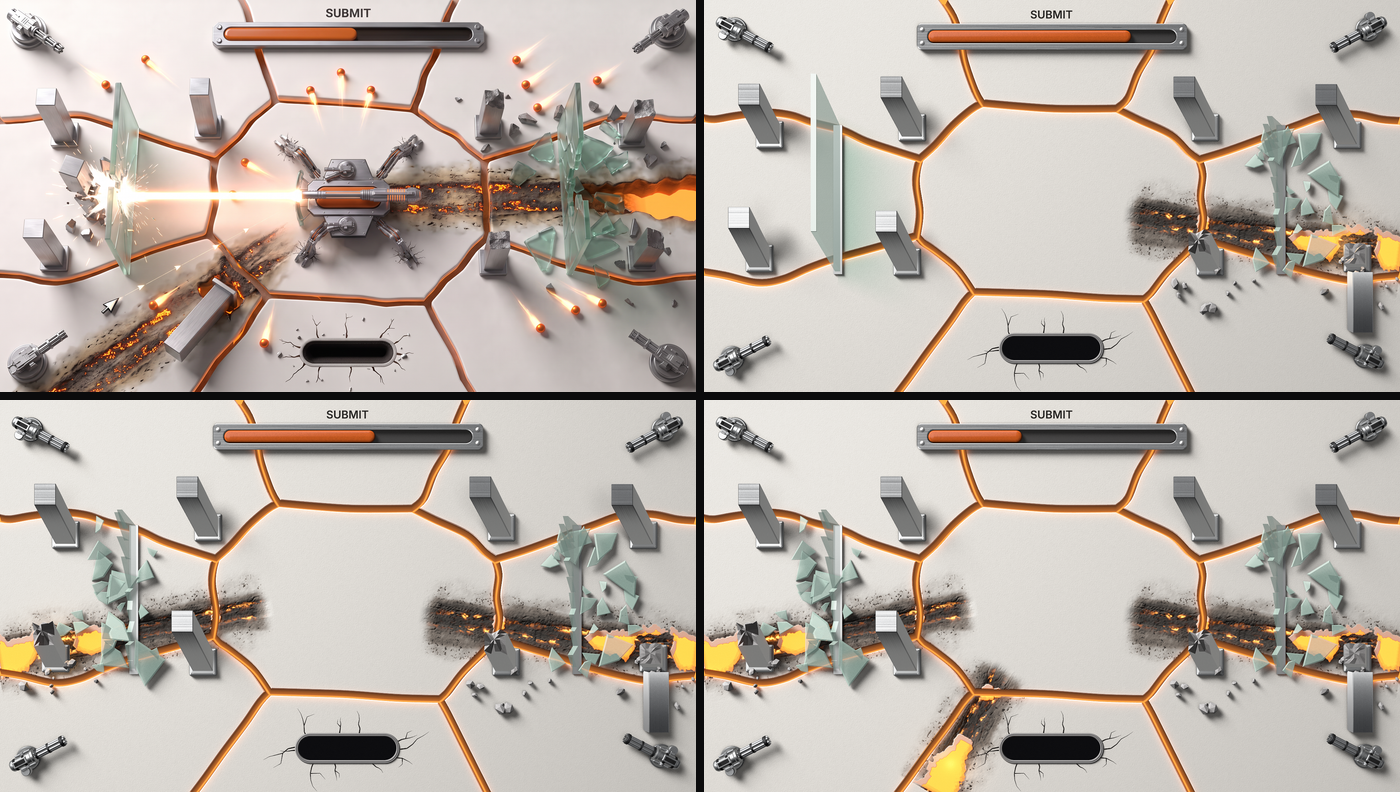
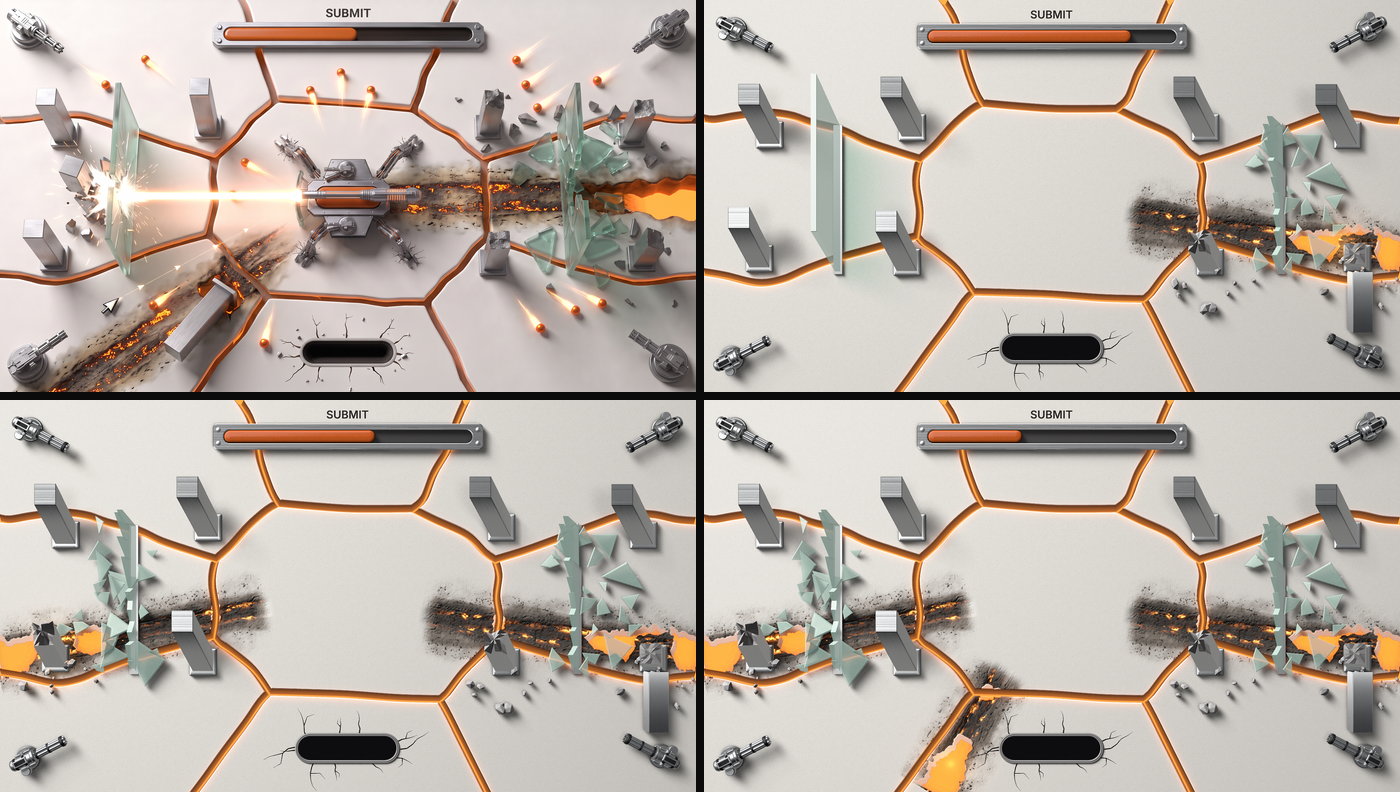
glass: teeth of the pane's own glass, splinters of two shapes; the hole graded on sixteen probes and more orange, its wall darker; finer dust

diff --git a/src/arena/wreck.ts b/src/arena/wreck.ts
@@ -21,7 +21,7 @@ const RUBBLE_EACH = 11
 const SHARDS_EACH = 22
 const SPARKS_EACH = 64
 const SMOKE_EACH = 20
-const DUST = 44
+const DUST = 96
 const DUST_SECONDS = 1.5
 // Over how many frames the wound of an aimed blast is painted ahead.
 const AHEAD_FRAMES = 36
@@ -75,10 +75,10 @@ function lumpGeometry(seed: number): THREE.BufferGeometry {
   return g
 }
 
-// A flat shard of glass, one unit across and three px thick.
-function shardGeometry(): THREE.BufferGeometry {
+// A flat shard of glass, one unit across: a long splinter with four corners, or a three-cornered one.
+function shardGeometry(three: boolean): THREE.BufferGeometry {
   const shape = new THREE.Shape()
-  const pts: [number, number][] = [[-0.56, -0.2], [0.5, -0.46], [0.3, 0.1], [-0.2, 0.52]]
+  const pts: [number, number][] = three ? [[-0.58, -0.3], [0.62, -0.08], [-0.14, 0.5]] : [[-0.56, -0.2], [0.5, -0.46], [0.3, 0.1], [-0.2, 0.52]]
   pts.forEach((q, i) => (i ? shape.lineTo(q[0], q[1]) : shape.moveTo(q[0], q[1])))
   shape.closePath()
   const g = new THREE.ExtrudeGeometry(shape, { depth: 0.04, bevelEnabled: true, bevelThickness: 0.03, bevelSize: 0.05, bevelSegments: 1 })
@@ -178,7 +178,7 @@ export function makeWreck(seed: number, kit: Kit, wounds: Wounds, pillars: Pilla
   // Teeth of the panes: built when a pane breaks, from where the blast went through it.
   const teeth = PANES.map((p) => {
     const s = stand(p.x, (p.y0 + p.y1) / 2)
-    const mesh = new THREE.Mesh(new THREE.BufferGeometry(), kit.shard)
+    const mesh = new THREE.Mesh(new THREE.BufferGeometry(), kit.tooth)
     mesh.castShadow = false
     mesh.renderOrder = 4
     s.root.add(mesh)
@@ -200,8 +200,10 @@ export function makeWreck(seed: number, kit: Kit, wounds: Wounds, pillars: Pilla
     return mesh
   }
   const rubble = instanced(keep(lumpGeometry(seed)), kit.broken, PILLARS.length * RUBBLE_EACH, 'arena-rubble', true, true)
-  const shards = instanced(keep(shardGeometry()), kit.shard, PANES.length * SHARDS_EACH, 'arena-shards', true, true)
+  const shards = instanced(keep(shardGeometry(false)), kit.shard, PANES.length * SHARDS_EACH, 'arena-shards', true, true)
   shards.renderOrder = 4
+  const splinters = instanced(keep(shardGeometry(true)), kit.shard, PANES.length * SHARDS_EACH, 'arena-splinters', true, true)
+  splinters.renderOrder = 4
   const plane = keep(new THREE.PlaneGeometry(1, 1))
   const add = { transparent: true, blending: THREE.AdditiveBlending, depthWrite: false, toneMapped: false, fog: false }
   const sparkStuff = keep(new THREE.MeshBasicMaterial({ map: softDot(), color: new THREE.Color(1, 1, 1), ...add }))
@@ -286,7 +288,7 @@ export function makeWreck(seed: number, kit: Kit, wounds: Wounds, pillars: Pilla
     const newest = active.reduce((a, k) => Math.max(a, k.at), -99)
     wounds.ember.value = 1 + 2.2 * Math.exp(-Math.max(0, t - newest) / 0.5)
 
-    let nRubble = 0, nShards = 0, nSparks = 0, nFlash = 0, nSmoke = 0
+    let nRubble = 0, nShards = 0, nSplinters = 0, nSparks = 0, nFlash = 0, nSmoke = 0
 
     // Pillars.
     pillars.forEach((p, i) => {
@@ -358,7 +360,8 @@ export function makeWreck(seed: number, kit: Kit, wounds: Wounds, pillars: Pilla
         e.set((1 - flat) * (rnd(seed, 965 + i, j) * 5 + 1) + 0.5 * (rnd(seed, 975 + i, j) - 0.5), (1 - flat) * (rnd(seed, 966 + i, j) * 5) + 0.5 * (rnd(seed, 976 + i, j) - 0.5), rnd(seed, 967 + i, j) * 6.283)
         q.setFromEuler(e)
         m4.compose(v.set(wx(p.x) + far * out + leanX * z, wy(along + (rnd(seed, 968 + i, j) - 0.5) * 60 * out) + lean * z, z), q, sc.set(size, size * (0.5 + 0.9 * rnd(seed, 969 + i, j)), size))
-        shards.setMatrixAt(nShards++, m4)
+        if (j % 2) splinters.setMatrixAt(nSplinters++, m4)
+        else shards.setMatrixAt(nShards++, m4)
       }
     })
 
@@ -418,10 +421,10 @@ export function makeWreck(seed: number, kit: Kit, wounds: Wounds, pillars: Pilla
     const since = t - ARENA.splitAt
     if (since >= 0 && since < DUST_SECONDS) {
       for (const d of dust) {
-        const born = 0.3 * rnd(seed, 990, d.k)
+        const born = 0.22 * rnd(seed, 990, d.k)
         const g = clamp01((since - born) / (DUST_SECONDS - born))
-        const dark = 0.5 * Math.sin(Math.PI * Math.sqrt(g)) * (1 - g * 0.55)
-        const size = 50 + 170 * g + 50 * rnd(seed, 991, d.k)
+        const dark = 0.42 * Math.sin(Math.PI * Math.sqrt(g)) * (1 - g * 0.55)
+        const size = 34 + 130 * g + 40 * rnd(seed, 991, d.k)
         put(smoke, nSmoke++, wx(d.x) + 24 * g * (rnd(seed, 992, d.k) - 0.5), wy(d.y) + 30 * g, 10 + 40 * g, rnd(seed, 993, d.k) * 6, size, size, dark * 0.86, dark * 0.9, dark)
       }
     }
@@ -448,7 +451,7 @@ export function makeWreck(seed: number, kit: Kit, wounds: Wounds, pillars: Pilla
       bandStuff.opacity = (0.4 + 0.6 * tell * tell) * (0.72 + 0.28 * Math.sin(t * (9 + 22 * tell)))
     }
 
-    for (const [mesh, n] of [[rubble, nRubble], [shards, nShards], [sparks, nSparks], [flashes, nFlash], [smoke, nSmoke]] as [THREE.InstancedMesh, number][]) {
+    for (const [mesh, n] of [[rubble, nRubble], [shards, nShards], [splinters, nSplinters], [sparks, nSparks], [flashes, nFlash], [smoke, nSmoke]] as [THREE.InstancedMesh, number][]) {
       mesh.visible = n > 0
       mesh.count = n
       if (n > 0) {
@@ -464,7 +467,7 @@ export function makeWreck(seed: number, kit: Kit, wounds: Wounds, pillars: Pilla
     dispose(): void {
       made.forEach((x) => x.dispose())
       teeth.forEach((x) => x.mesh.geometry.dispose())
-      for (const mesh of [rubble, shards, sparks, flashes, smoke]) mesh.dispose()
+      for (const mesh of [rubble, shards, splinters, sparks, flashes, smoke]) mesh.dispose()
     }
   }
 }

diff --git a/src/arena/props.ts b/src/arena/props.ts
@@ -45,6 +45,7 @@ export interface Kit {
   glass: THREE.MeshPhysicalMaterial
   glassEdge: THREE.MeshPhysicalMaterial
   shard: THREE.MeshPhysicalMaterial
+  tooth: THREE.MeshPhysicalMaterial
   orange: THREE.Material
   broken: THREE.MeshPhysicalMaterial
   hot: THREE.MeshBasicMaterial
@@ -56,9 +57,11 @@ export function makeKit(): Kit {
   const glass = studio(new THREE.MeshPhysicalMaterial({ color: new THREE.Color(0.5, 0.7, 0.62), emissive: new THREE.Color(0.2, 0.3, 0.26), roughness: 0.5, metalness: 0, clearcoat: 0.5, clearcoatRoughness: 0.4, specularIntensity: 0.7, transparent: true, opacity: 0.72, depthWrite: true, side: THREE.FrontSide }))
   const glassEdge = studio(new THREE.MeshPhysicalMaterial({ color: new THREE.Color(0.8, 0.93, 0.88), roughness: 0.35, metalness: 0, clearcoat: 0.8, clearcoatRoughness: 0.2, specularIntensity: 0.9, transparent: true, opacity: 0.9 }))
   const shard = studio(new THREE.MeshPhysicalMaterial({ color: new THREE.Color(0.62, 0.84, 0.75), emissive: new THREE.Color(0.1, 0.16, 0.14), roughness: 0.22, metalness: 0, clearcoat: 1, clearcoatRoughness: 0.12, specularIntensity: 1, transparent: true, opacity: 0.5, depthWrite: false, side: THREE.DoubleSide, flatShading: true }))
+  // What is left standing of a shattered pane: the same glass as the whole one, seen from both sides.
+  const tooth = studio(new THREE.MeshPhysicalMaterial({ color: new THREE.Color(0.55, 0.76, 0.67), emissive: new THREE.Color(0.17, 0.26, 0.225), roughness: 0.3, metalness: 0, clearcoat: 0.9, clearcoatRoughness: 0.15, specularIntensity: 0.9, transparent: true, opacity: 0.74, side: THREE.DoubleSide, flatShading: true }))
   const broken = studio(new THREE.MeshPhysicalMaterial({ color: new THREE.Color(0.5, 0.5, 0.515), roughness: 0.9, metalness: 0.2, specularIntensity: 0.4, flatShading: true }))
   const hot = new THREE.MeshBasicMaterial({ color: new THREE.Color(3.2, 1.1, 0.16), toneMapped: false })
-  return { aluminium: m.aluminium, satin: m.aluminiumSatin, steel: m.steel, dark: m.gap, chrome: m.chrome, glass, glassEdge, shard, orange: m.orange, broken, hot, own: [glass, glassEdge, shard, broken, hot] }
+  return { aluminium: m.aluminium, satin: m.aluminiumSatin, steel: m.steel, dark: m.gap, chrome: m.chrome, glass, glassEdge, shard, tooth, orange: m.orange, broken, hot, own: [glass, glassEdge, shard, tooth, broken, hot] }
 }
 
 export interface Pillar { root: THREE.Group; foot: THREE.Mesh; body: THREE.Mesh; x: number; y: number; order: number }

diff --git a/src/arena/ground.ts b/src/arena/ground.ts
@@ -81,7 +81,7 @@ export function woundedCeramic(w: Wounds): THREE.MeshPhysicalMaterial {
     const emissive = '#include <emissivemap_fragment>'
     if (!shader.fragmentShader.includes(colour) || !shader.fragmentShader.includes(emissive)) throw new Error('The surface code of this three.js release is not the one the arena was written for')
     shader.fragmentShader = head + shader.fragmentShader
-      .replace(colour, `${colour}\n\tvec4 arenaW = texture2D( arenaWounds, vArenaUv );\n\tdiffuseColor.rgb = mix( diffuseColor.rgb, vec3( 0.2, 0.15, 0.115 ), smoothstep( 0.0, 0.5, arenaW.r ) * 0.85 );\n\tdiffuseColor.rgb = mix( diffuseColor.rgb, vec3( 0.03, 0.027, 0.025 ), smoothstep( 0.3, 1.0, arenaW.r ) );\n\tdiffuseColor.rgb *= mix( vec3( 1.0 ), vec3( 0.42, 0.3, 0.24 ), smoothstep( 0.08, 0.3, arenaW.a ) ) * ( 1.0 - 0.94 * smoothstep( 0.55, 0.9, arenaW.a ) );`)
+      .replace(colour, `${colour}\n\tvec4 arenaW = texture2D( arenaWounds, vArenaUv );\n\tdiffuseColor.rgb = mix( diffuseColor.rgb, vec3( 0.2, 0.15, 0.115 ), smoothstep( 0.0, 0.5, arenaW.r ) * 0.85 );\n\tdiffuseColor.rgb = mix( diffuseColor.rgb, vec3( 0.03, 0.027, 0.025 ), smoothstep( 0.3, 1.0, arenaW.r ) );\n\tdiffuseColor.rgb *= mix( vec3( 1.0 ), vec3( 0.2, 0.115, 0.075 ), smoothstep( 0.08, 0.3, arenaW.a ) ) * ( 1.0 - 0.94 * smoothstep( 0.55, 0.9, arenaW.a ) );`)
       .replace(emissive, `${emissive}
 \t{
 \t\tvec2 arenaT = ${texel};
@@ -94,7 +94,7 @@ export function woundedCeramic(w: Wounds): THREE.MeshPhysicalMaterial {
 \t\tfloat arenaWall = smoothstep( 0.08, 0.3, arenaW.a ) * ( 1.0 - arenaLight );
 \t\tfloat arenaB = arenaW.b * arenaW.b;
 \t\ttotalEmissiveRadiance += arenaEmber * mix( vec3( 1.9, 0.36, 0.03 ), vec3( 3.6, 1.7, 0.34 ), arenaB ) * arenaB * arenaFlick;
-\t\ttotalEmissiveRadiance += mix( vec3( 1.15, 0.27, 0.02 ), vec3( 2.0, 0.72, 0.075 ), smoothstep( 0.66, 1.0, arenaW.a ) ) * arenaLight + vec3( 0.5, 0.12, 0.014 ) * arenaWall;
+\t\ttotalEmissiveRadiance += mix( vec3( 1.1, 0.24, 0.018 ), vec3( 1.75, 0.5, 0.04 ), smoothstep( 0.66, 1.0, arenaW.a ) ) * arenaLight + vec3( 0.5, 0.12, 0.014 ) * arenaWall;
 \t\tfloat arenaS = texture2D( arenaSpill, vArenaUv ).r;
 \t\ttotalEmissiveRadiance += vec3( 0.8, 0.2, 0.03 ) * arenaS * arenaS * arenaSeam * ( 1.0 - arenaW.r );
 \t}`)

diff --git a/src/arena/breaks.ts b/src/arena/breaks.ts
@@ -166,7 +166,7 @@ export function paintLayer(layer: Uint8Array, W: number, H: number, k: ViewBreak
   }
   // Rows run up the page: a row more is a step toward the top.
   const far = Math.max(1, Math.round(14 / sx)), near = Math.max(1, Math.round(10 / sx))
-  const ring: [number, number][] = [[far, 0], [-far, 0], [0, far], [0, -far], [near, near], [-near, near], [near, -near], [-near, -near]]
+  const ring: [number, number][] = [[far, 0], [-far, 0], [0, far], [0, -far], [near, near], [-near, near], [near, -near], [-near, -near], [2 * far, 0], [-2 * far, 0], [0, 2 * far], [0, -2 * far], [2 * near, 2 * near], [-2 * near, 2 * near], [2 * near, -2 * near], [-2 * near, -2 * near]]
   const wallJ = Math.max(1, Math.round(wall / sy)), wallI = Math.max(1, Math.round((wall * 0.5) / sx))
   for (let j = j0; j <= j1; j++) {
     const y = PAGE.h - (j + 0.5) * sy
@@ -185,7 +185,7 @@ export function paintLayer(layer: Uint8Array, W: number, H: number, k: ViewBreak
         let inside = 0
         for (const [oi, oj] of ring) if (hole(i + oi, j + oj)) inside++
         const lit = hole(i, j + wallJ) && hole(i - wallI, j + wallJ)
-        data[at + 3] = lit ? Math.round(255 * (0.62 + 0.38 * (inside / 8))) : 52
+        data[at + 3] = lit ? Math.round(255 * (0.62 + 0.38 * (inside / 16))) : 52
         continue
       }
       const id = l.tag
